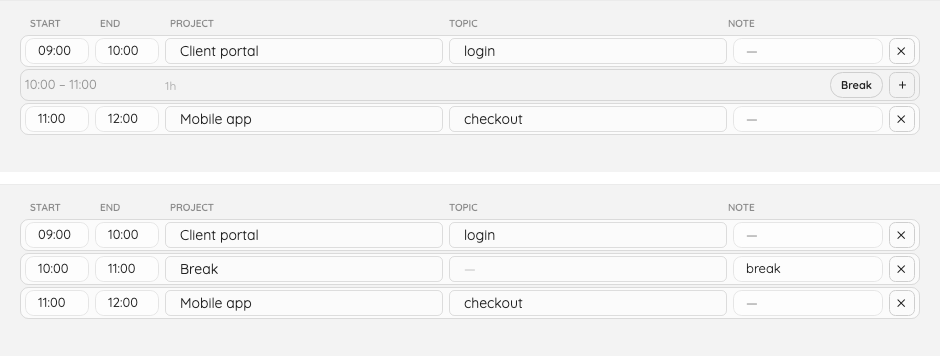
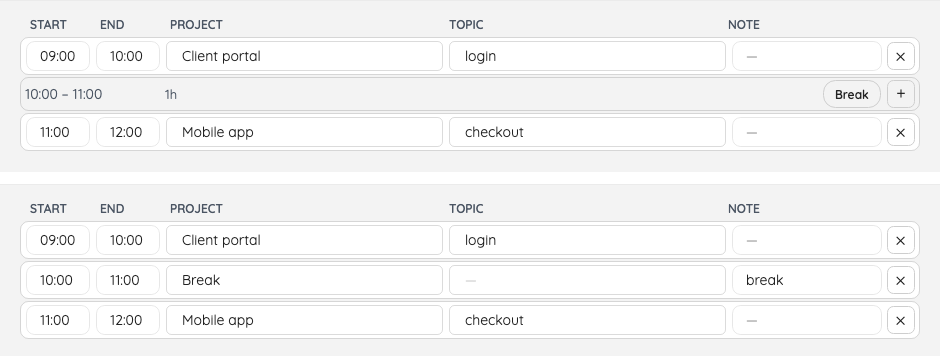
fix(tray): a dialog from the tray no longer quits the app
Every item that opens a window crashed the process. The cause is one
line of Avalonia's: Window.Show(owner) throws "Cannot show window with
non-visible owner", and this application hides its main window whenever
it is left alone in the tray — so Connect an agent, Projects and
topics and Settings all aborted on the first click. They now go through
one helper that shows the dialog over the window when it is on screen
and on its own when it is not, with a test for each of the three cases.

The window is white now instead of the skin's tinted grey, and the type
scale is a size up throughout: title 26, total 24, entry line 16, cells
14, captions 12. Secondary text is an ink colour rather than a
transparency — a grey at half opacity over a grey page is what made the
day unreadable — and a frozen day keeps its rows at full contrast,
because what was worked is history worth reading and the disabled
fields already say it cannot be edited.

409 tests green, nothing over CRAP 10; the macOS bundle was rebuilt.

diff --git a/tests/Worksheet.UiTests/DialogTests.cs b/tests/Worksheet.UiTests/DialogTests.cs
@@ -1,0 +1,54 @@
+// SPDX-License-Identifier: MPL-2.0
+// This Source Code Form is subject to the terms of the Mozilla Public
+// License, v. 2.0. If a copy of the MPL was not distributed with this
+// file, You can obtain one at https://mozilla.org/MPL/2.0/.
+
+using Avalonia.Controls;
+using Avalonia.Headless.XUnit;
+using Worksheet.Desktop;
+
+namespace Worksheet.UiTests;
+
+/// <summary>
+/// Opening a dialog from the tray, where the main window is usually hidden. Avalonia refuses a
+/// window whose owner is not on screen, which is why every tray item used to quit the application.
+/// </summary>
+public sealed class DialogTests
+{
+    [AvaloniaFact]
+    public void A_dialog_opened_while_the_main_window_is_hidden_still_opens()
+    {
+        var main = new Window { Width = 400, Height = 300 };
+        main.Show();
+        main.Hide();
+
+        var dialog = new Window { Width = 200, Height = 120 };
+
+        Dialog.ShowOver(dialog, main);
+
+        Assert.True(dialog.IsVisible);
+    }
+
+    [AvaloniaFact]
+    public void A_dialog_opened_over_the_main_window_still_opens()
+    {
+        var main = new Window { Width = 400, Height = 300 };
+        main.Show();
+
+        var dialog = new Window { Width = 200, Height = 120 };
+
+        Dialog.ShowOver(dialog, main);
+
+        Assert.True(dialog.IsVisible);
+    }
+
+    [AvaloniaFact]
+    public void A_dialog_with_no_main_window_still_opens()
+    {
+        var dialog = new Window { Width = 200, Height = 120 };
+
+        Dialog.ShowOver(dialog, owner: null);
+
+        Assert.True(dialog.IsVisible);
+    }
+}

diff --git a/src/Worksheet.Desktop/App.axaml.cs b/src/Worksheet.Desktop/App.axaml.cs
@@ -147,13 +147,7 @@ public sealed class App : Application
             DataContext = new ConnectViewModel(settings, status, isProblem: _mcpProblem is not null),
         };
 
-        if (_window is null)
-        {
-            window.Show();
-            return;
-        }
-
-        window.Show(_window);
+        Dialog.ShowOver(window, _window);
     }
 
     /// <summary>Opens the knobs: the port the server listens on, and how often the fold is rewritten.</summary>
@@ -170,13 +164,7 @@ public sealed class App : Application
             Applied = ApplySettings,
         };
 
-        if (_window is null)
-        {
-            window.Show();
-            return;
-        }
-
-        window.Show(_window);
+        Dialog.ShowOver(window, _window);
     }
 
     /// <summary>Opens the catalogue: what is in use, and the four decisions a person makes about it.</summary>
@@ -190,13 +178,7 @@ public sealed class App : Application
         var model = new ManageViewModel(_local.Ledger) { Changed = () => CurrentDay?.Reload() };
         var window = new ManageWindow { DataContext = model };
 
-        if (_window is null)
-        {
-            window.Show();
-            return;
-        }
-
-        window.Show(_window);
+        Dialog.ShowOver(window, _window);
     }
 
     /// <summary>

diff --git a/src/Worksheet.Desktop/Dialog.cs b/src/Worksheet.Desktop/Dialog.cs
@@ -1,0 +1,29 @@
+// SPDX-License-Identifier: MPL-2.0
+// This Source Code Form is subject to the terms of the Mozilla Public
+// License, v. 2.0. If a copy of the MPL was not distributed with this
+// file, You can obtain one at https://mozilla.org/MPL/2.0/.
+
+using Avalonia.Controls;
+
+namespace Worksheet.Desktop;
+
+/// <summary>
+/// Showing a dialog over another window. Avalonia refuses a window whose owner is not on screen,
+/// and this application hides its main window whenever it is left alone in the tray — so a dialog
+/// opened from the tray must stand on its own rather than claim a parent it cannot have.
+/// </summary>
+internal static class Dialog
+{
+    public static void ShowOver(Window window, Window? owner)
+    {
+        ArgumentNullException.ThrowIfNull(window);
+
+        if (owner is { IsVisible: true })
+        {
+            window.Show(owner);
+            return;
+        }
+
+        window.Show();
+    }
+}
